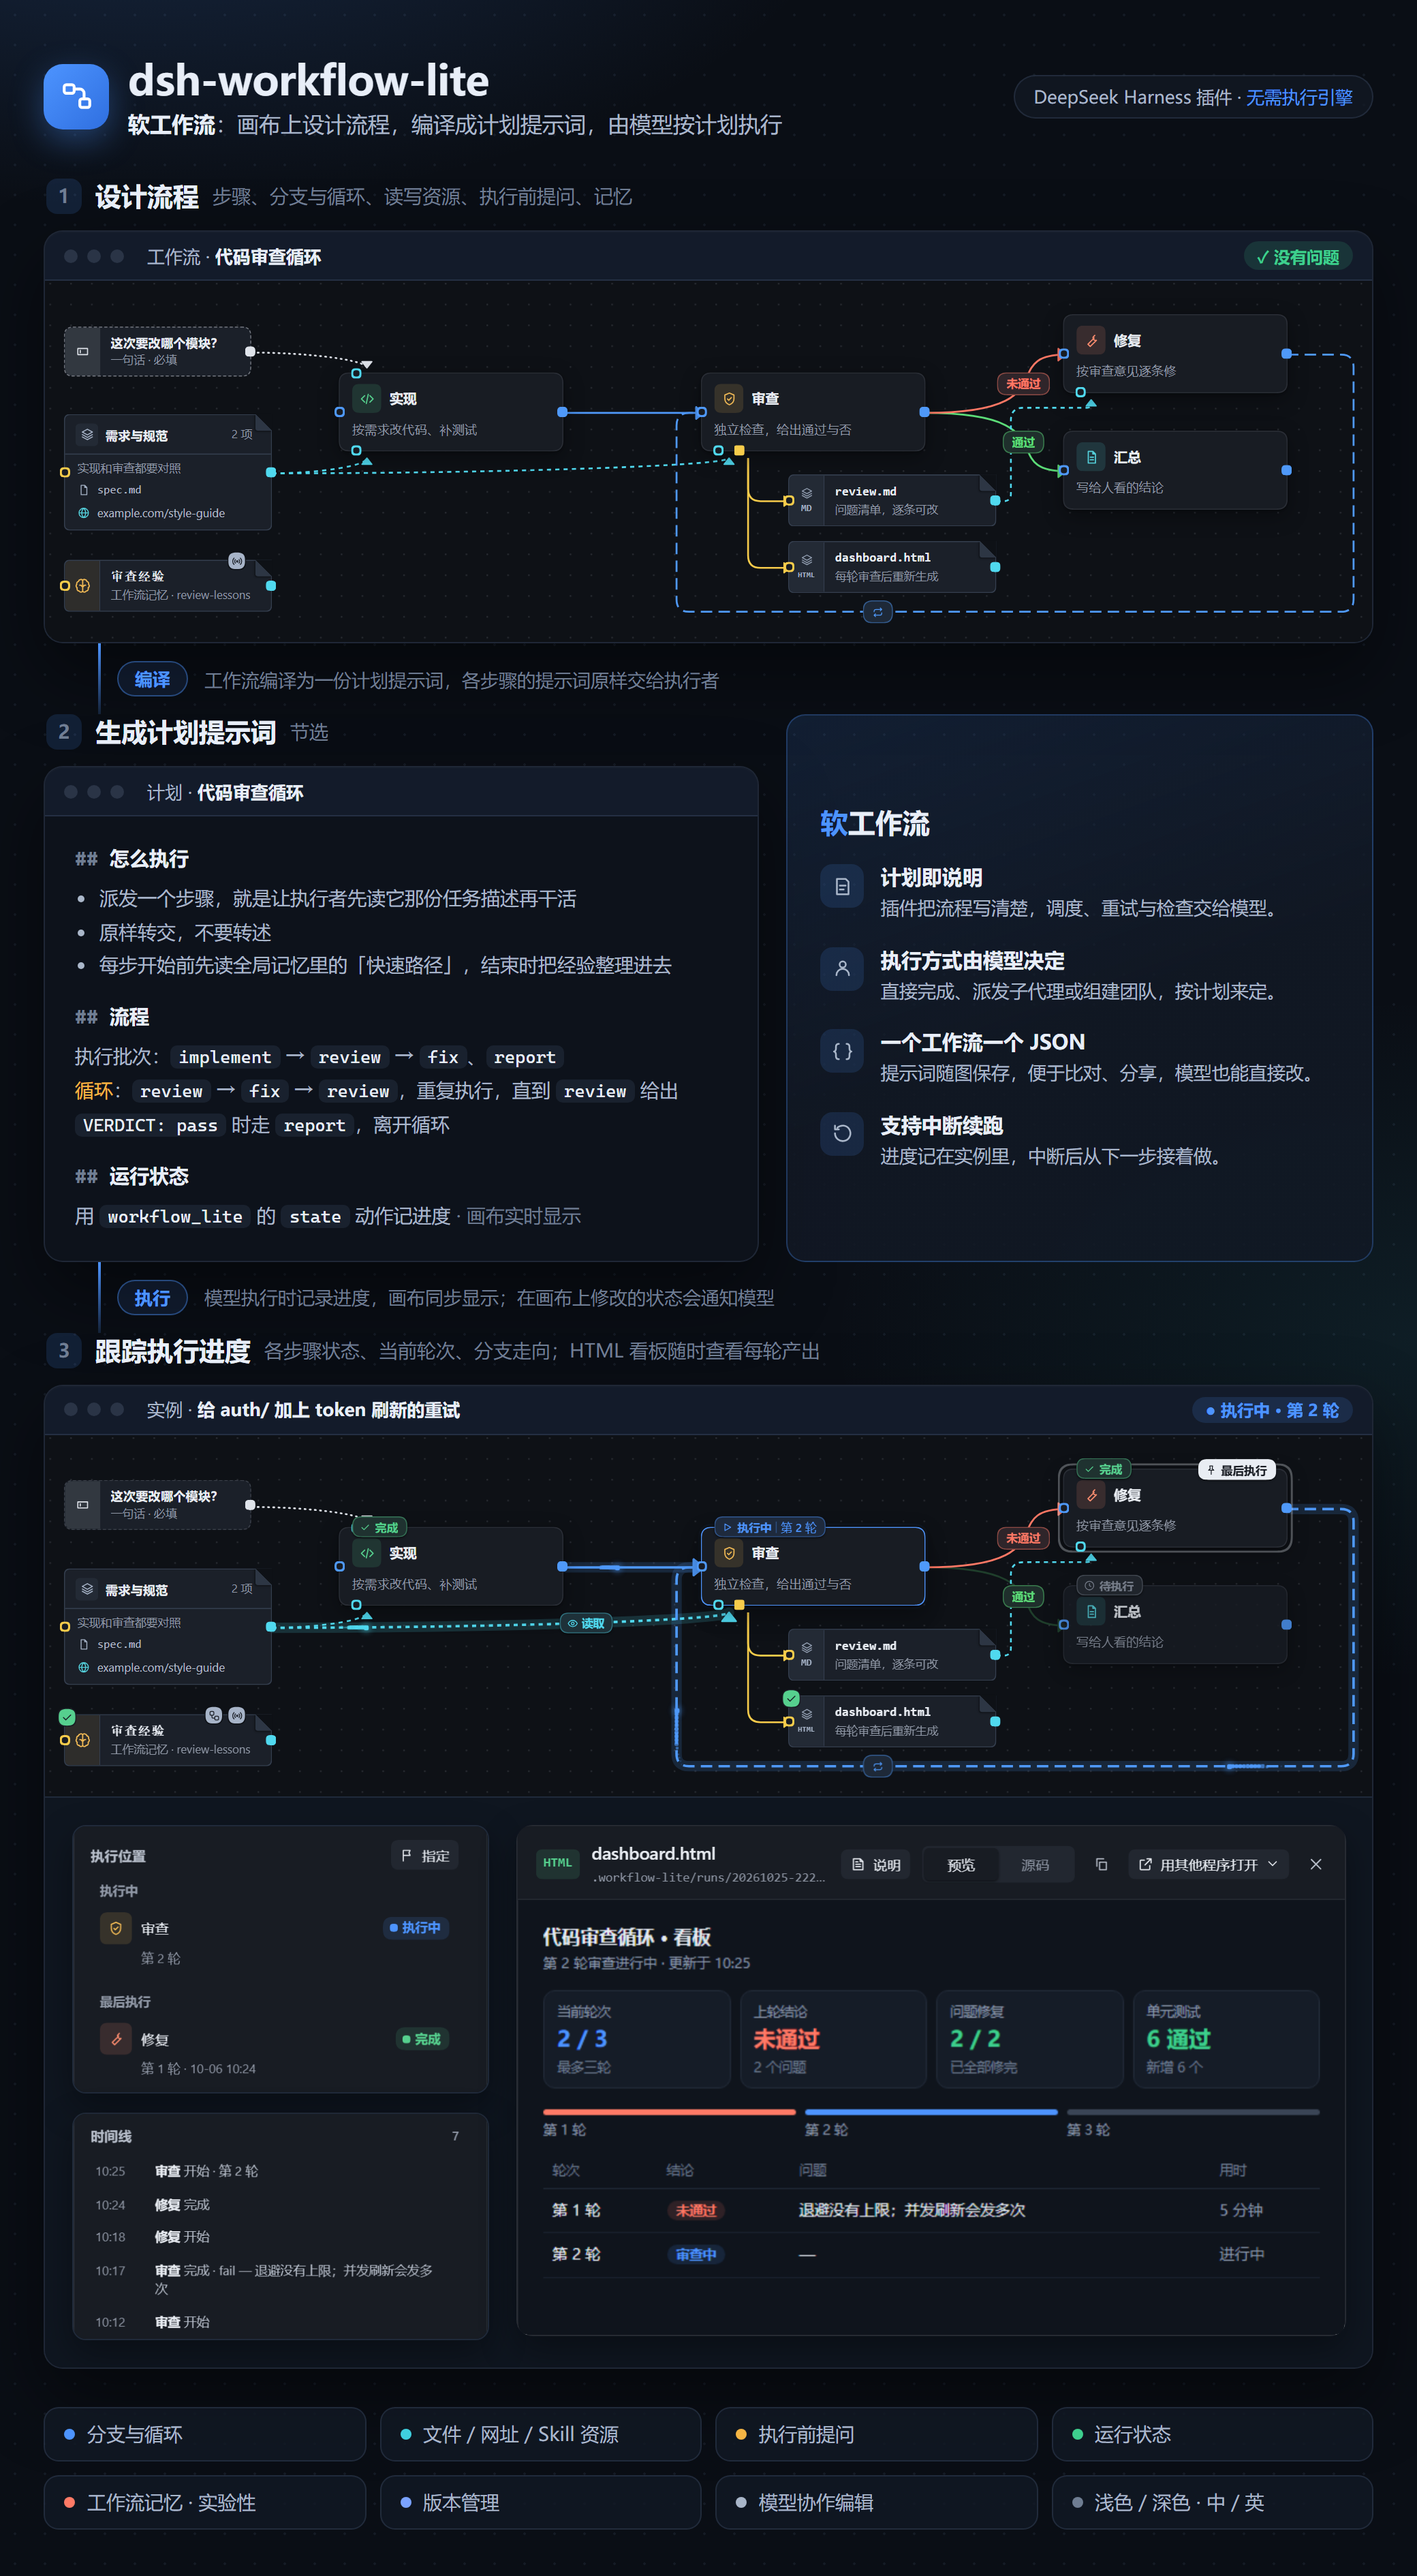
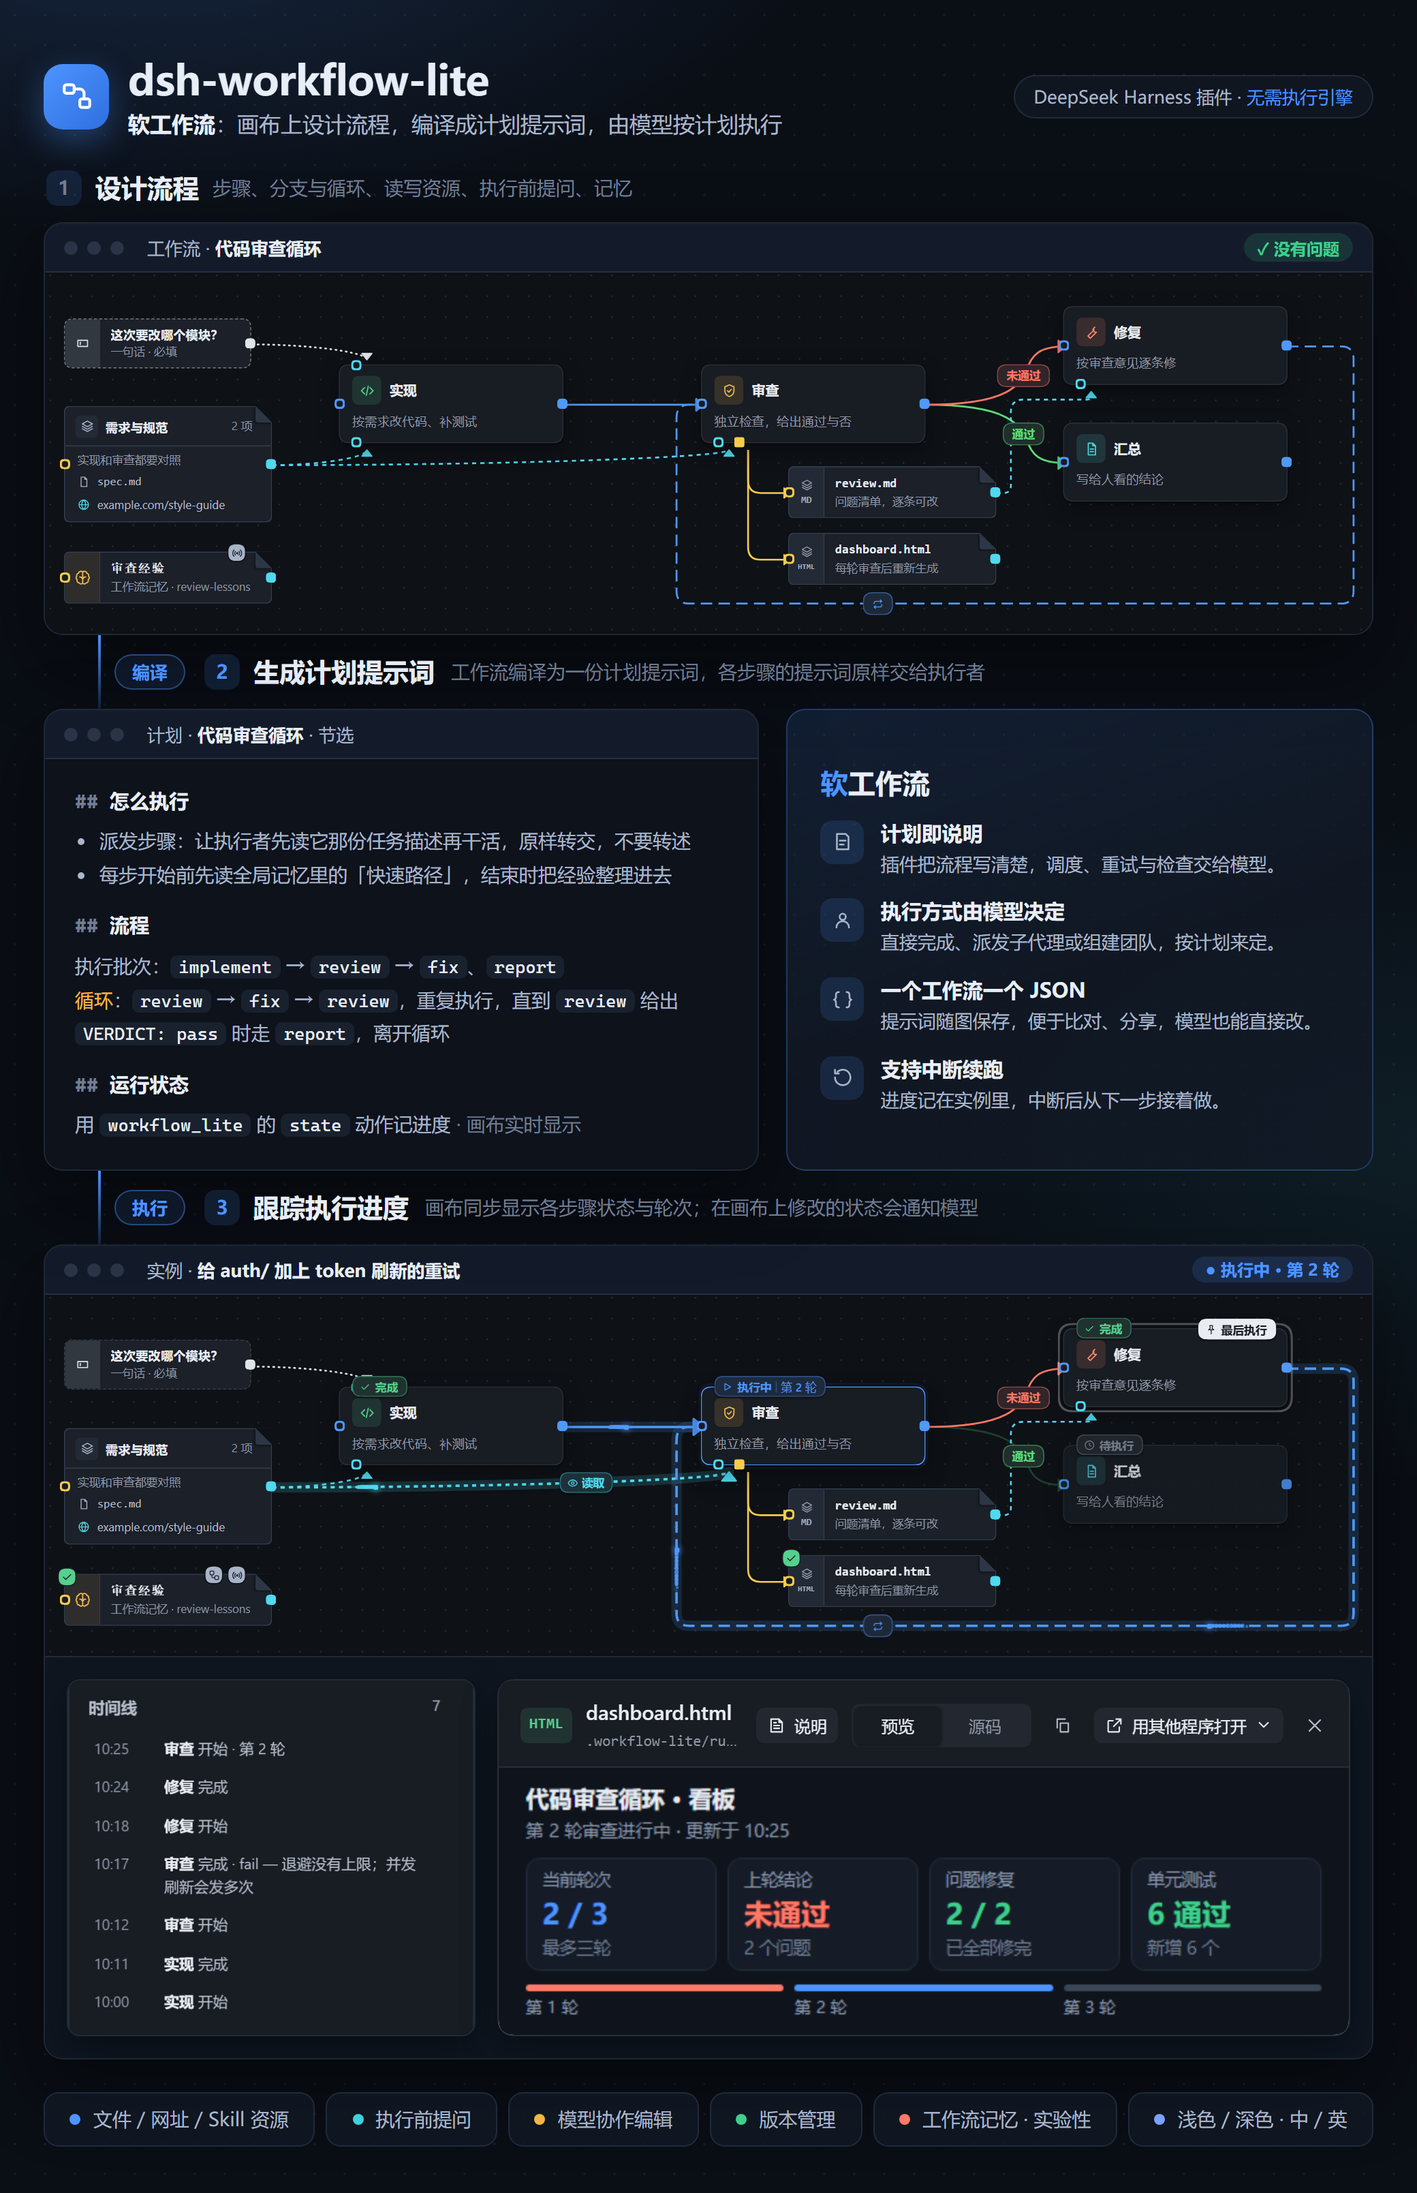
docs(readme): 封面图压短：第 2、3 段标题并进连接行，执行段下半截换成时间线加看板、按原大拍不再发糊，底部特性压成一行

diff --git a/tests/readme/hero.html b/tests/readme/hero.html
@@ -41,7 +41,7 @@
   img { display: block; }
 
   /* ── 标题 ── */
-  header { display: flex; align-items: center; justify-content: space-between; margin-bottom: 30px; }
+  header { display: flex; align-items: center; justify-content: space-between; margin-bottom: 24px; }
   .brand { display: flex; gap: 14px; align-items: center; }
   .logo {
     display: grid; place-items: center; width: 48px; height: 48px; border-radius: 14px;
@@ -82,23 +82,24 @@
   .chip.ok { background: rgb(62 207 142 / 14%); color: var(--green); }
   .chip.run { background: var(--accent-soft); color: var(--accent); }
 
-  /* 第三段的下半截：左列右栏里裁出的两小块，右边查看框里的看板。 */
+  /* 第三段的下半截：左边右栏里裁出的时间线，右边查看框里的看板，两块一样高。 */
   .detail {
-    display: grid; grid-template-columns: auto 1fr; gap: 20px; padding: 20px;
+    display: grid; grid-template-columns: auto 1fr; gap: 16px; padding: 16px;
     border-top: 1px solid var(--line); background: rgb(18 25 37 / 55%);
   }
-  .detail .side { display: flex; flex-direction: column; gap: 14px; }
   .shot { border: 1px solid var(--line); border-radius: 10px; box-shadow: 0 10px 26px rgb(0 0 0 / 35%); }
   .detail .board { border: 0; border-radius: 12px; justify-self: end; }
 
-  /* 段与段之间的连接：一根竖线 + 中间的动词。 */
-  .link { display: flex; gap: 12px; align-items: center; height: 52px; padding-left: 40px; }
+  /* 段与段之间的连接：一根竖线 + 动词，后面接下一段的标题行。 */
+  .link { display: flex; gap: 10px; align-items: center; height: 54px; padding-left: 40px; }
+  .link .verb { margin-right: 4px; }
+  .link h2 { flex: none; margin: 0; font-size: 19px; font-weight: 650; }
   .link .stem { flex: none; width: 2px; height: 100%; background: linear-gradient(var(--accent), rgb(77 148 255 / 15%)); }
   .link .verb {
     flex: none; padding: 4px 12px; border: 1px solid rgb(77 148 255 / 40%); border-radius: 999px;
     background: rgb(77 148 255 / 10%); color: var(--accent); font-size: 13px; font-weight: 600;
   }
-  .link .note { color: var(--text-3); font-size: 13.5px; }
+  .link .note { margin-left: 2px; color: var(--text-3); font-size: 14px; white-space: nowrap; }
 
   /* ── 第二段：计划 + 软工作流 ── */
   .middle { display: grid; grid-template-columns: 1.22fr 1fr; gap: 20px; }
@@ -116,7 +117,7 @@
   .plan .muted { color: var(--text-3); }
 
   .soft {
-    display: flex; flex-direction: column; justify-content: center; gap: 18px; padding: 24px 24px;
+    display: flex; flex-direction: column; justify-content: center; gap: 15px; padding: 20px 24px;
     border: 1px solid rgb(77 148 255 / 28%); border-radius: 14px;
     background: linear-gradient(160deg, rgb(77 148 255 / 13%), rgb(18 25 37 / 85%) 55%);
   }
@@ -131,10 +132,10 @@
   .soft .row b { display: block; margin-bottom: 2px; font-size: 15px; font-weight: 600; }
   .soft .row span { color: var(--text-2); font-size: 13.5px; line-height: 1.6; }
 
-  /* ── 底部特性：四列两行 ── */
-  footer { display: grid; grid-template-columns: repeat(4, 1fr); gap: 10px; margin-top: 28px; }
+  /* ── 底部特性：一行排开 ── */
+  footer { display: flex; gap: 8px; margin-top: 24px; }
   footer .f {
-    display: flex; gap: 9px; align-items: center; padding: 10px 14px;
+    flex: 1 1 auto; display: flex; gap: 9px; align-items: center; justify-content: center; padding: 10px 12px;
     border: 1px solid var(--line); border-radius: 11px; background: rgb(18 25 37 / 75%);
     color: var(--text-2); font-size: 14px; white-space: nowrap;
   }
@@ -168,11 +169,10 @@
     </div>
   </section>
 
-  <div class="link"><i class="stem"></i><span class="verb" data-k="compile"></span><span class="note" data-k="compileNote"></span></div>
+  <div class="link"><i class="stem"></i><span class="verb" data-k="compile"></span><span class="num">2</span><h2 data-k="s2"></h2><span class="note" data-k="compileNote"></span></div>
 
   <section class="middle">
     <div>
-      <div class="label"><span class="num">2</span><h2 data-k="s2">生成计划提示词</h2><span data-k="s2d"></span></div>
       <div class="frame">
         <div class="bar"><i class="dot"></i><i class="dot"></i><i class="dot"></i><span class="title" data-k="s2bar"></span></div>
         <div class="plan" data-k="plan"></div>
@@ -187,20 +187,16 @@
     </div>
   </section>
 
-  <div class="link"><i class="stem"></i><span class="verb" data-k="run"></span><span class="note" data-k="runNote"></span></div>
+  <div class="link"><i class="stem"></i><span class="verb" data-k="run"></span><span class="num">3</span><h2 data-k="s3"></h2><span class="note" data-k="runNote"></span></div>
 
   <section>
-    <div class="label"><span class="num">3</span><h2 data-k="s3">跟踪执行进度</h2><span data-k="s3d"></span></div>
     <div class="frame">
       <div class="bar"><i class="dot"></i><i class="dot"></i><i class="dot"></i>
         <span class="title" data-k="s3bar"></span><span class="chip run" data-k="s3chip"></span>
       </div>
       <img data-img="run-graph" alt="" />
       <div class="detail">
-        <div class="side">
-          <img class="shot" data-img="run-position" alt="" />
-          <img class="shot" data-img="run-timeline" alt="" />
-        </div>
+        <img class="shot" data-img="run-timeline" alt="" />
         <img class="shot board" data-img="run-dashboard" alt="" />
       </div>
     </div>
@@ -221,10 +217,9 @@
         compile: '编译',
         compileNote: '工作流编译为一份计划提示词，各步骤的提示词原样交给执行者',
         s2: '生成计划提示词',
-        s2d: '节选',
-        s2bar: '计划 · <b>代码审查循环</b>',
+        s2bar: '计划 · <b>代码审查循环</b> · 节选',
         plan: `<h3>怎么执行</h3>
-          <ul><li>派发一个步骤，就是让执行者先读它那份任务描述再干活</li><li>原样转交，不要转述</li><li>每步开始前先读全局记忆里的「快速路径」，结束时把经验整理进去</li></ul>
+          <ul><li>派发步骤：让执行者先读它那份任务描述再干活，原样转交，不要转述</li><li>每步开始前先读全局记忆里的「快速路径」，结束时把经验整理进去</li></ul>
           <h3>流程</h3>
           <p>执行批次：${code('implement')} → ${code('review')} → ${code('fix')}、${code('report')}</p>
           <p><span class="hl">循环</span>：${code('review')} → ${code('fix')} → ${code('review')}，重复执行，直到 ${code('review')} 给出 ${code('VERDICT: pass')} 时走 ${code('report')}，离开循环</p>
@@ -236,19 +231,16 @@
         soft3: '<b>一个工作流一个 JSON</b><span>提示词随图保存，便于比对、分享，模型也能直接改。</span>',
         soft4: '<b>支持中断续跑</b><span>进度记在实例里，中断后从下一步接着做。</span>',
         run: '执行',
-        runNote: '模型执行时记录进度，画布同步显示；在画布上修改的状态会通知模型',
+        runNote: '画布同步显示各步骤状态与轮次；在画布上修改的状态会通知模型',
         s3: '跟踪执行进度',
-        s3d: '各步骤状态、当前轮次、分支走向；HTML 看板随时查看每轮产出',
         s3bar: '实例 · <b>给 auth/ 加上 token 刷新的重试</b>',
         s3chip: '● 执行中 · 第 2 轮',
         features: [
-          '分支与循环',
           '文件 / 网址 / Skill 资源',
           '执行前提问',
-          '运行状态',
-          '工作流记忆 · 实验性',
-          '版本管理',
           '模型协作编辑',
+          '版本管理',
+          '工作流记忆 · 实验性',
           '浅色 / 深色 · 中 / 英',
         ],
       },
@@ -260,12 +252,11 @@
         s1bar: 'Workflow · <b>code-review-loop</b>',
         ok: '✓ No problems',
         compile: 'Compile',
-        compileNote: 'The workflow becomes one plan prompt; each step’s prompt reaches its executor word for word',
+        compileNote: 'One plan prompt; each step’s prompt reaches its executor word for word',
         s2: 'Get a plan prompt',
-        s2d: 'Excerpt, translated',
-        s2bar: 'Plan · <b>code-review-loop</b>',
+        s2bar: 'Plan · <b>code-review-loop</b> · excerpt, translated',
         plan: `<h3>How to run</h3>
-          <ul><li>Dispatching a step means the executor reads its task file first, then works</li><li>Hand the task over word for word</li><li>Read the global memory’s quick path before each step; fold lessons back in at the end</li></ul>
+          <ul><li>Dispatching a step means the executor reads its task file first, then works; hand it over word for word</li><li>Read the global memory’s quick path before each step; fold lessons back in at the end</li></ul>
           <h3>Flow</h3>
           <p>Batches: ${code('implement')} → ${code('review')} → ${code('fix')}, ${code('report')}</p>
           <p><span class="hl">Loop</span>: ${code('review')} → ${code('fix')} → ${code('review')}, repeat until ${code('review')} answers ${code('VERDICT: pass')}, then go to ${code('report')} and leave the loop</p>
@@ -277,19 +268,16 @@
         soft3: '<b>One workflow, one JSON file</b><span>Prompts live inside the graph, easy to diff and share; the model can edit it too.</span>',
         soft4: '<b>Resume after interruption</b><span>Progress is kept per run; work continues from the next step, rounds worked out.</span>',
         run: 'Run',
-        runNote: 'The model records progress and the canvas follows; state you change on the canvas is reported back',
+        runNote: 'Step status and rounds show on the canvas; state you change there is reported back',
         s3: 'Track progress',
-        s3d: 'Step status, current round, branch taken; an HTML dashboard for each round’s output',
         s3bar: 'Run · <b>Add retry to auth/ token refresh</b>',
         s3chip: '● Running · round 2',
         features: [
-          'Branches & loops',
           'Files / URLs / Skills',
           'Pre-run questions',
-          'Run state',
-          'Memory (beta)',
-          'Versions',
           'Model co-editing',
+          'Versions',
+          'Memory (beta)',
           'Light / dark · 中 / EN',
         ],
       },

diff --git a/AGENTS.md b/AGENTS.md
@@ -142,5 +142,5 @@ DSH_WEB_TOKEN=<token> DSH_BASE=http://127.0.0.1:3190 node --experimental-strip-t
 - 计划节选摘自 `tests/runs/hero/zh/plan.txt`（英文版是译文），编译器措辞变了要同步；中英文案一起改，用平实陈述句，不用「不是……而是……」。
 - 素材按封面里的大小拍，`hero.html` 按「原图宽 ÷ 2」摆，不在封面里缩放；窄面板单独裁。
 - 封面 1040 宽（GitHub 约显示 880），示例工作流只留四步；改页宽要同步 `readme-shots.mjs` 的 `GRAPH_WIDTH`。
-- 工作流的图是主角，右栏小块和看板按比例拍（不小于 `MIN_SCALE` 0.85）；第三段两列齐平不留空。
+- 工作流的图是主角，右栏的时间线和看板按原大拍（`MIN_SCALE` 1，再小在 GitHub 上就糊了）；第三段两列齐平不留空。
 - 出图后两张都看一眼：没有错位、截断，没拍进本机路径或私人工作区名。
